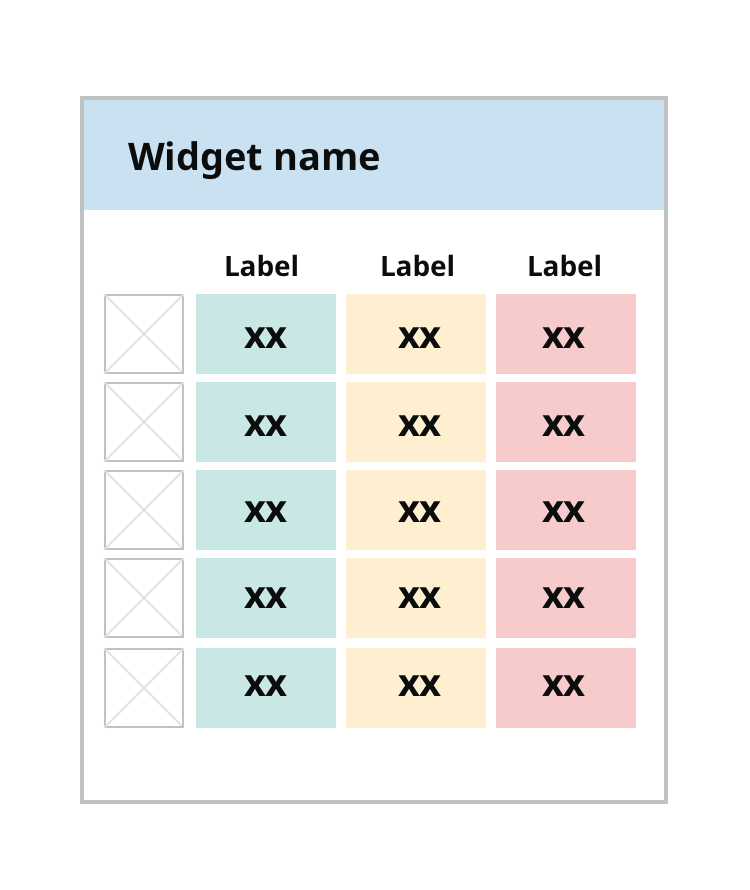
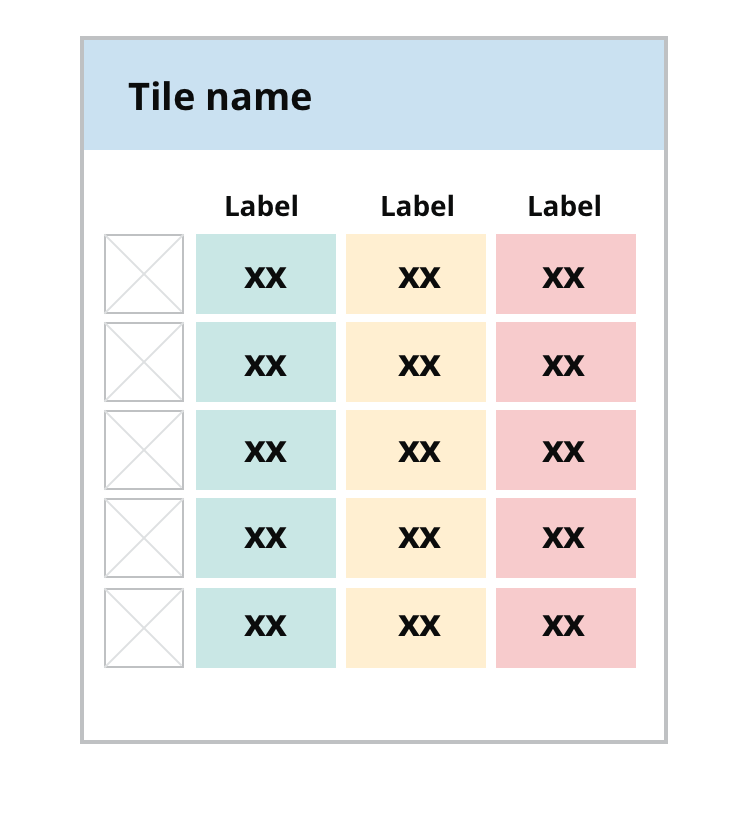
Updated dashboard page, including images

Changed region(s): [[0.092, 0.0301, 0.8893, 0.8434], [0.092, 0.8735, 0.8893, 0.9036]]

diff --git a/app/views/dashboards.html b/app/views/dashboards.html
@@ -12,22 +12,43 @@
 
         <h1 class="heading-xlarge">Dashboards</h1>
 
+        <h2 class="heading-medium">Example of a dashboard</h2>
+        <p>A dashboard is made up from a series of movable, customisable tiles that
+        display various kinds of information. When selected a new page is opened that displays more details regarding tile's content.
+        </p>
+        <img src="/public/images/dashboard_tiles_1440_example.png" alt="" width="1024" height="1005" style="margin-left:-32px"; />
 
         <h2 class="heading-medium">Standard tile layout (1024px)</h2>
-
-        <img src="/public/images/dashboard_tiles_1024.png" alt="" width="800" height="769" style="margin-left:-32px"; />
+        <img src="/public/images/dashboard_tiles_1024.png" alt="" width="800" height="769"; />
 
         <h2 class="heading-medium">Wider tile layout (1440px)</h2>
-
         <img src="/public/images/dashboard_tiles_1440.png" alt="" width="1024" height="700" style="margin-left:-32px"; />
 
         <h2 class="heading-medium">Mobile layout</h2>
-
         <img src="/public/images/dashboard_tiles_mobile.png" alt="" width="253" height="450"; />
-        <h3 class="heading-small">Tile example - bar chart</h3>
 
-        <img src="/public/images/tile_barchart.png" alt="" width="375" height="445" style="margin-left:-32px"; />
+        <h2 class="heading-medium">Tile examples</h2>
 
+        <h3 class="heading-small">Bar chart</h3>
+        <img src="/public/images/tile_barchart.png" alt="" width="375" height="415" style="margin-left:-40px"; />
+
+        <h3 class="heading-small">Line chart</h3>
+        <img src="/public/images/tile_linechart.png" alt="" width="375" height="415" style="margin-left:-40px"; />
+
+        <h3 class="heading-small">Pie chart</h3>
+        <img src="/public/images/tile_piechart.png" alt="" width="375" height="415" style="margin-left:-40px"; />
+
+        <h3 class="heading-small">Stacked bars</h3>
+        <img src="/public/images/tile_stackedbars.png" alt="" width="375" height="415" style="margin-left:-40px"; />
+
+        <h3 class="heading-small">Task lists</h3>
+        <img src="/public/images/tile_tasklists.png" alt="" width="375" height="415" style="margin-left:-40px"; />
+
+        <h3 class="heading-small">Day planner</h3>
+        <img src="/public/images/tile_dayplanner.png" alt="" width="375" height="415" style="margin-left:-40px"; />
+
+        <h3 class="heading-small">Updates</h3>
+        <img src="/public/images/tile_updates.png" alt="" width="375" height="415" style="margin-left:-40px"; />
     </div>
   </div>
 
